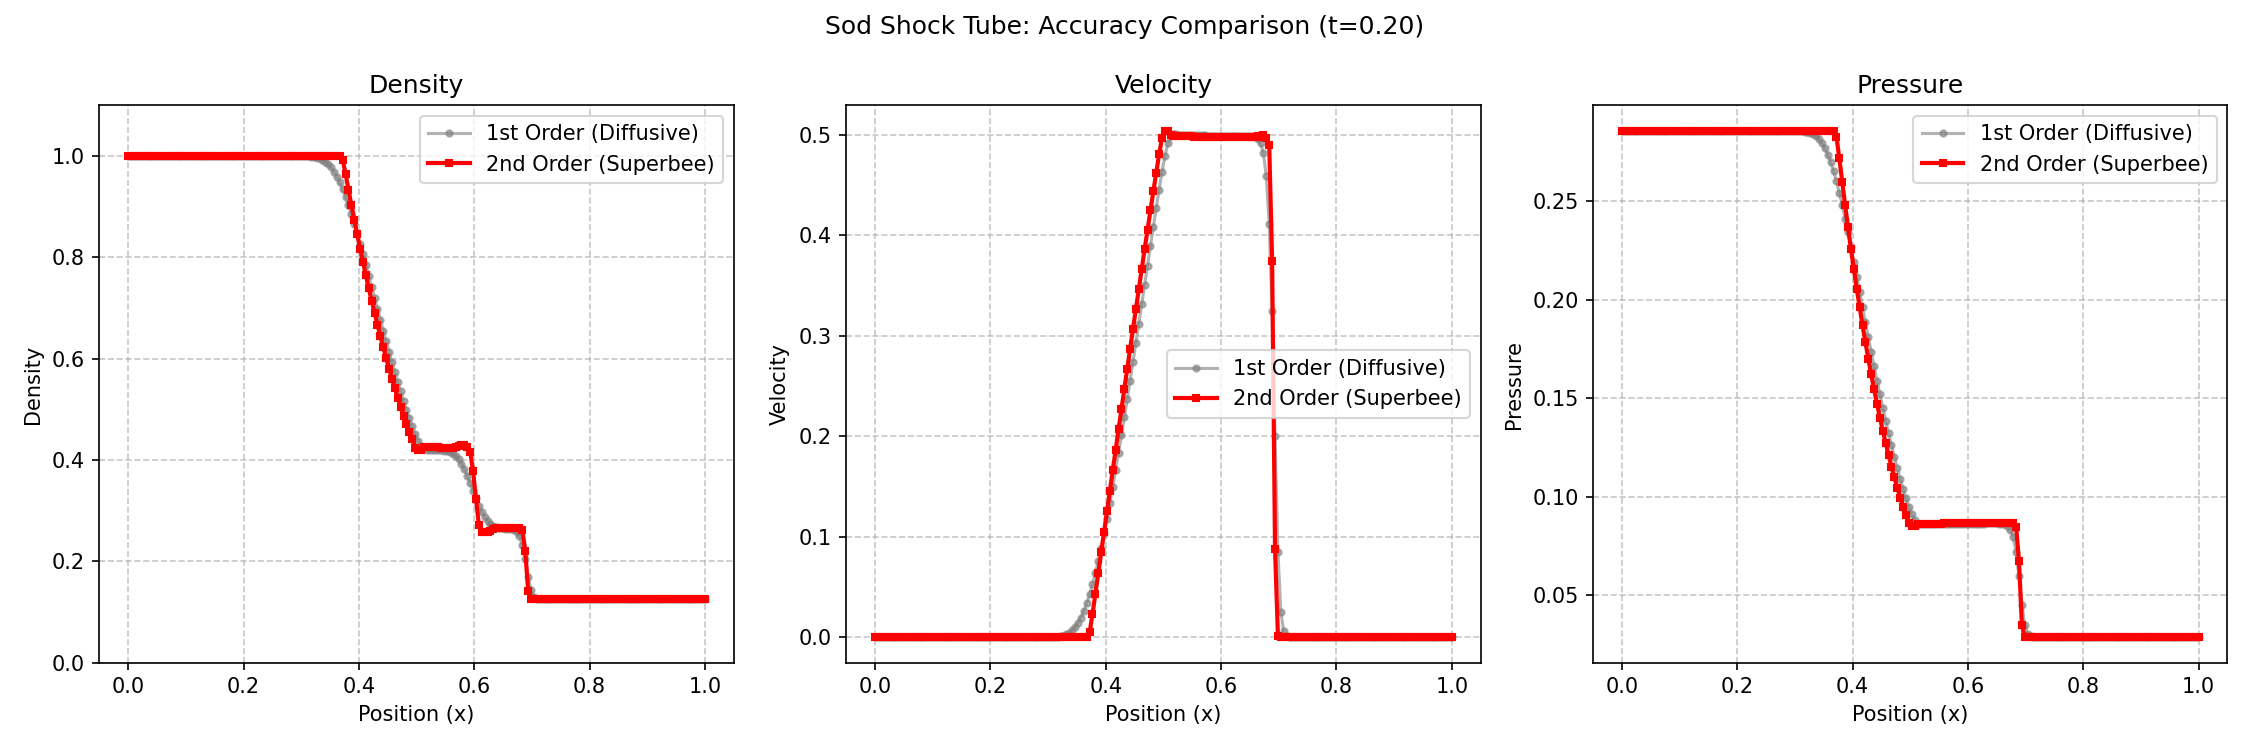
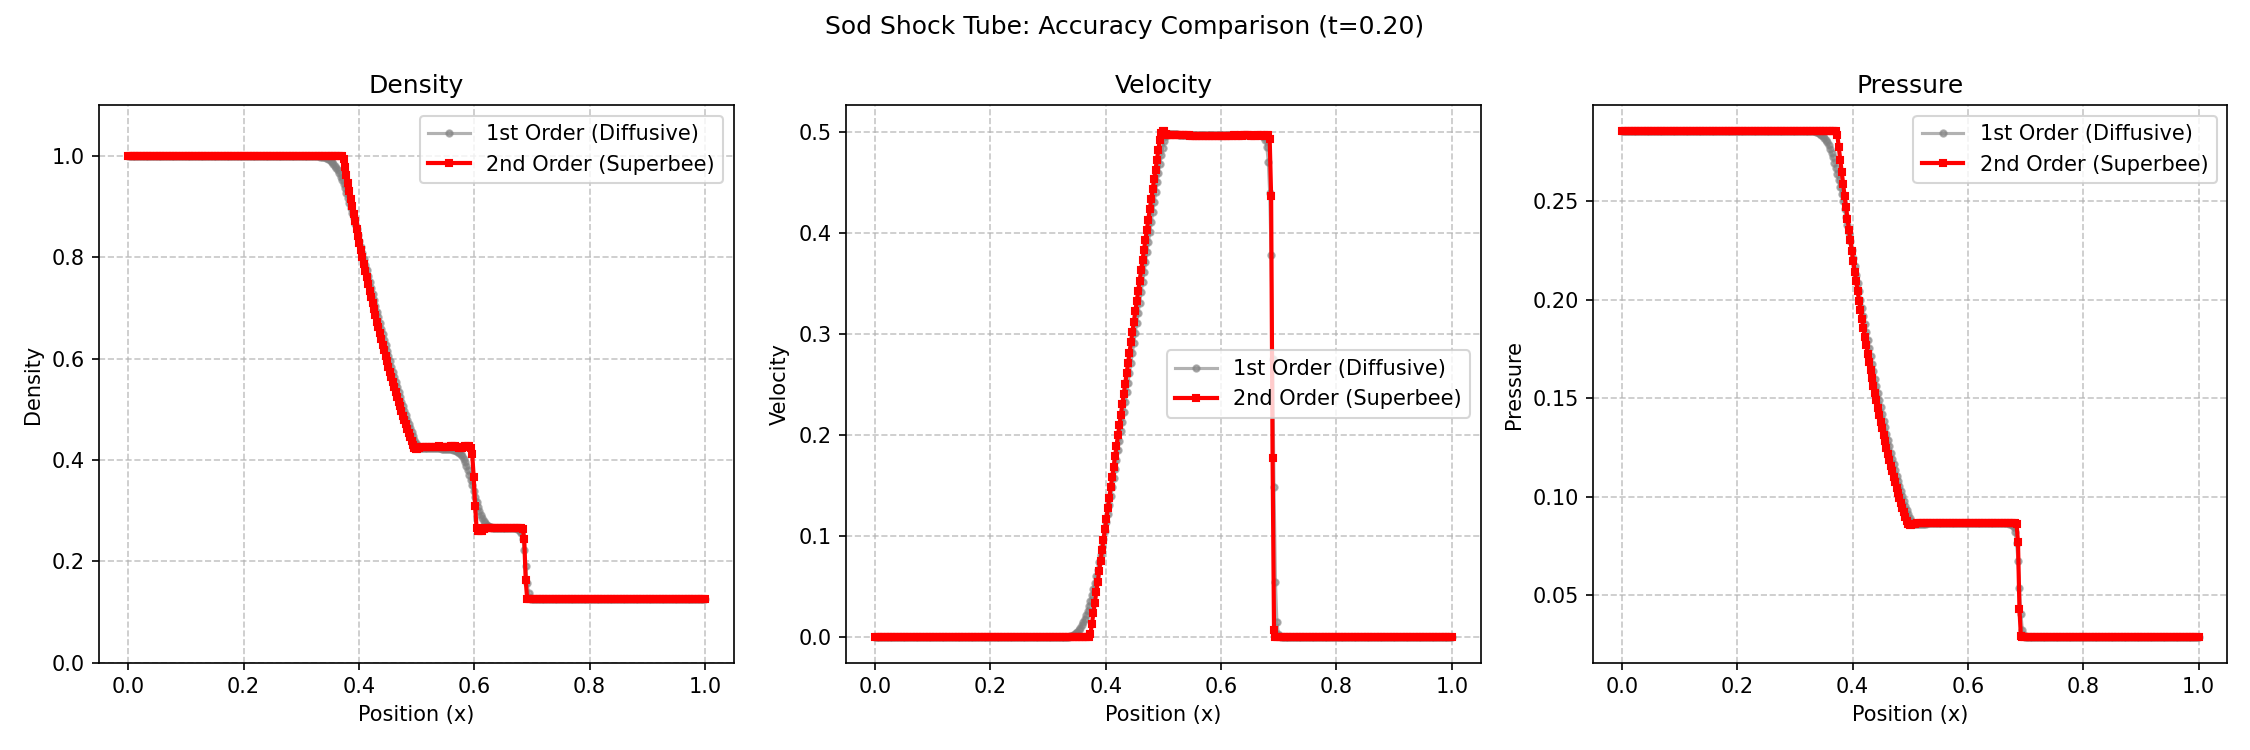
add sod shock example figure

diff --git a/README.md b/README.md
@@ -91,7 +91,11 @@ pip install -e .
 
 ## 📖 Examples
 
-**Sod Shock Tube** (`examples/sod-shock-tube/`): 1D Riemann problem showing shock, rarefaction, and contact discontinuity
+### Sod Shock Tube (`examples/sod-shock-tube/`)
+
+Classic 1D Riemann problem demonstrating shock, rarefaction, and contact discontinuity. The comparison example shows the accuracy difference between 1st-order (Godunov + Piecewise Constant) and 2nd-order (MUSCL-Hancock + Superbee) schemes. The 2nd-order method captures sharper discontinuities with less numerical diffusion.
+
+![Sod Shock Tube Comparison](examples/sod-shock-tube/sod_comparison.png)
 
 **Rayleigh-Taylor Instability** (`examples/rayleigh-taylor/`): 2D hydrodynamic instability with gravity
 
